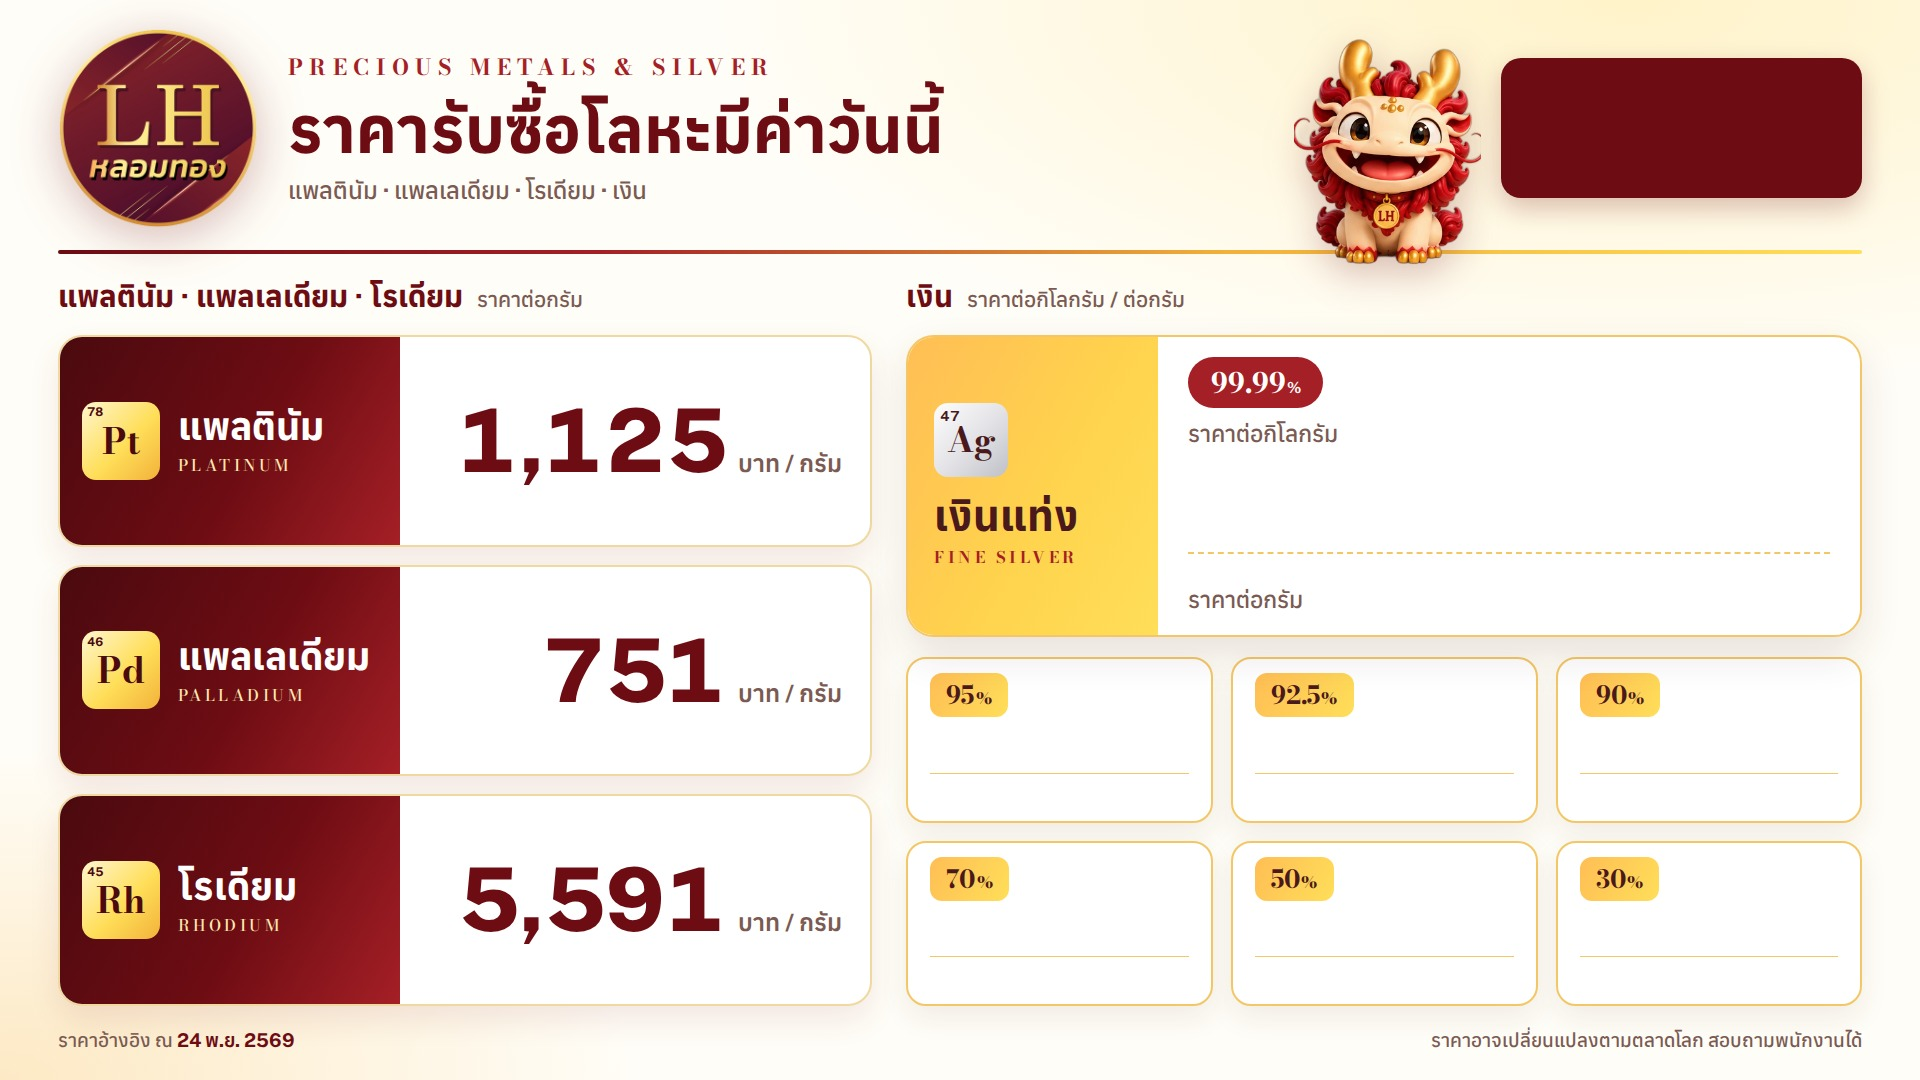
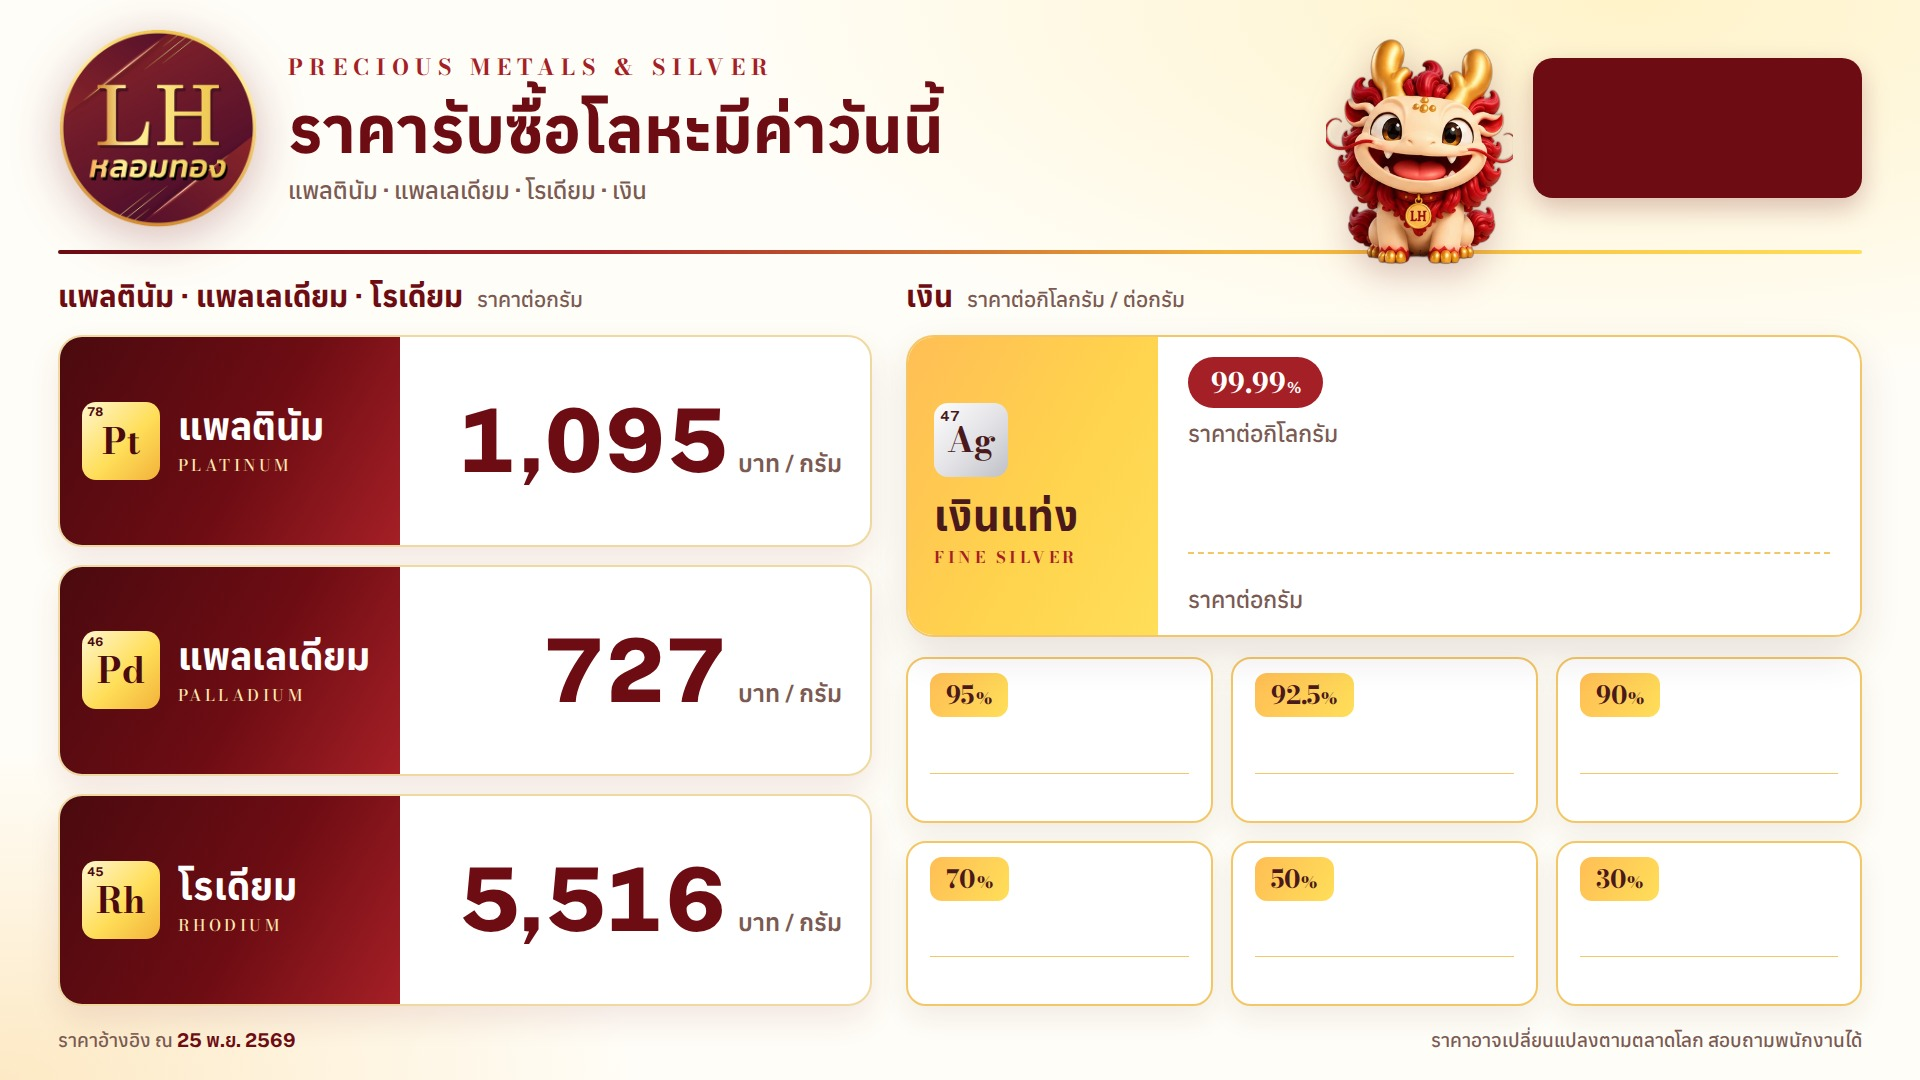
Update prices 2026-11-25

diff --git a/board.html b/board.html
@@ -302,15 +302,15 @@ html{-webkit-text-size-adjust:100%;text-size-adjust:100%}
      ราคาแต่ละเกรด = ราคาเงินหลังหัก × เปอร์เซ็นต์ (99.99% ใช้ราคาเต็ม)
    showSilver = เปิด/ปิดหน้าราคาเงิน, rotateSeconds = เปลี่ยนหน้าทุกกี่วินาที */
 const CONFIG = {
-  asOf: "24 พ.ย. 2569",
-  fx: 34.00,
+  asOf: "25 พ.ย. 2569",
+  fx: 33.94,
   discount: 0.20,
   rotateSeconds: 15,
   showSilver: true,
   metals: [
-    { th:"แพลตินัม",  en:"Platinum",  sym:"Pt", z:78, usdPerGram:41.378 },
-    { th:"แพลเลเดียม", en:"Palladium", sym:"Pd", z:46, usdPerGram:27.6175 },
-    { th:"โรเดียม",    en:"Rhodium",   sym:"Rh", z:45, usdPerGram:274.09, discount:0.40 }
+    { th:"แพลตินัม",  en:"Platinum",  sym:"Pt", z:78, usdPerGram:40.317 },
+    { th:"แพลเลเดียม", en:"Palladium", sym:"Pd", z:46, usdPerGram:26.7816 },
+    { th:"โรเดียม",    en:"Rhodium",   sym:"Rh", z:45, usdPerGram:270.87, discount:0.40 }
   ],
   silver: { pricePerKg: 55000, grades: [95, 92.5, 90, 70, 50, 30] }
 };
